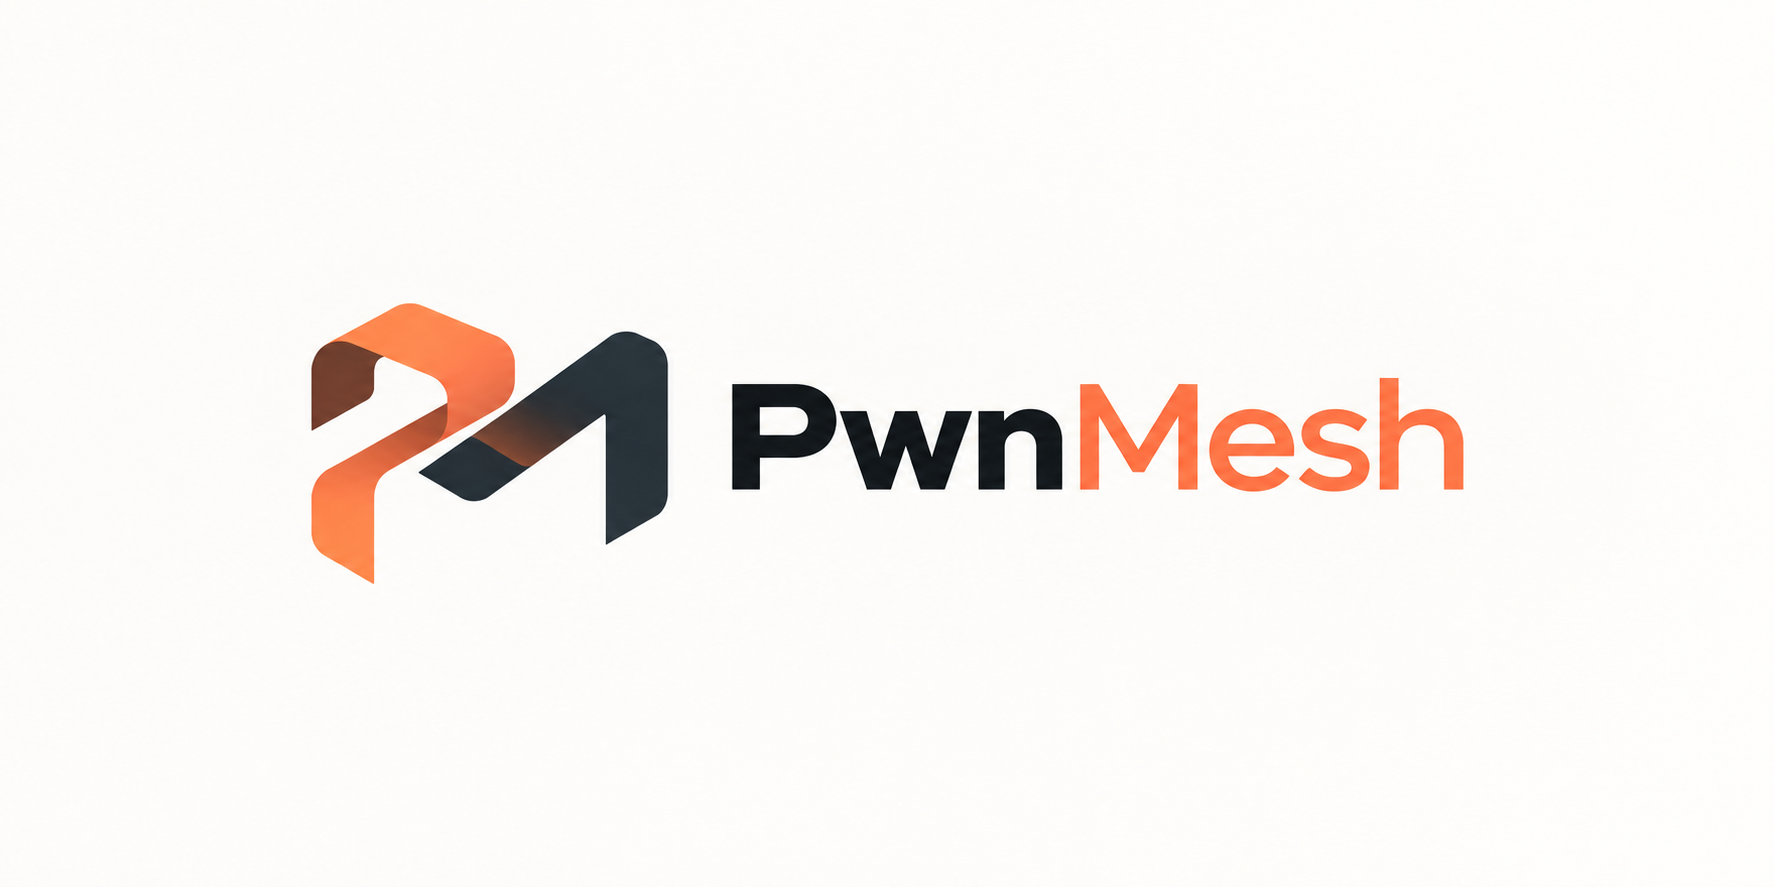
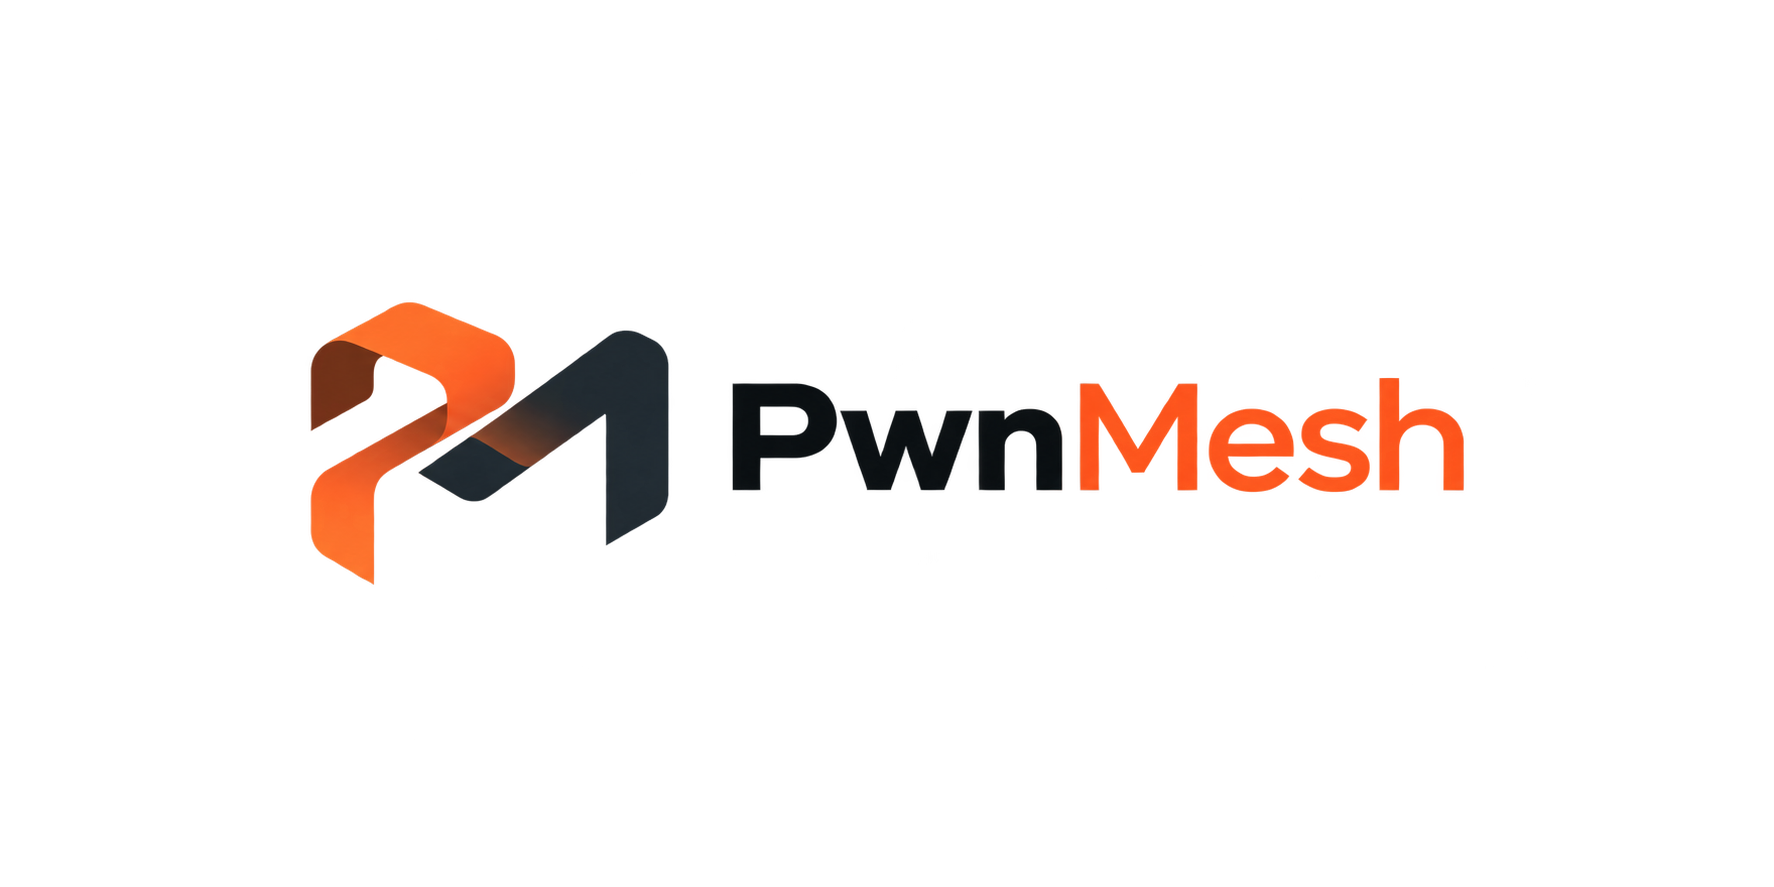
docs: expose disclaimer in Security tab and use transparent brand

Changed region(s): [[0.5891, 0.4262, 0.8371, 0.5784], [0.186, 0.3348, 0.31, 0.487], [0.155, 0.487, 0.248, 0.6697]]

diff --git a/SECURITY.md b/SECURITY.md
@@ -1,0 +1,59 @@
+# PwnMesh 免责声明与使用合规须知
+
+本声明适用于 PwnMesh 项目的代码、工具及相关文档。请在使用前阅读本声明与 [PolyForm Noncommercial License 1.0.0](LICENSE)。软件的使用、复制、修改和分发权限以该许可证为准；本声明不替代或变更许可证，也不授予对任何第三方系统进行测试的权限。
+
+## 1 工具定位
+
+PwnMesh 用于合法的技术研究、经授权的安全测试、内部风险自查及其他符合许可证的技术工作。涉及网络安全测试的功能，旨在帮助发现和验证风险、改进防御措施及开展合规的漏洞治理。
+
+公开提供代码不代表允许任意商业使用，也不代表对任何目标的测试已获得授权。涉及商业目的的使用，应先核实是否属于许可证允许的范围，必要时另行取得权利人的授权。
+
+## 2 授权使用原则
+
+使用者应当在测试前取得目标系统权利人或有权授权主体的书面授权，并明确测试对象、时间、方法、账号权限及数据处理范围。对自有系统进行测试，也应确认不会影响未经授权的第三方资源。
+
+严禁在无授权、越权或超出授权范围的情况下，实施扫描、探测、渗透、数据获取、流量分析及其他自动化测试，包括针对：
+
+- 未获授权的互联网系统；
+- 金融、能源、政务、通信、交通等领域的关键信息基础设施；
+- 第三方企业、个人或公有云中的业务系统；
+- 法律法规禁止测试的信息系统。
+
+授权不免除使用者遵守适用法律、监管要求及目标服务规则的义务。授权范围不清、授权被撤回或测试产生非预期影响时，应停止相关操作并确认后再继续。
+
+## 3 禁止滥用
+
+不得利用本项目实施以下行为：
+
+1. 非法入侵、非法控制、数据窃取、流量攻击或恶意利用漏洞；
+2. 黑灰产活动、违法牟利、恶意破坏、未经授权的批量扫描或网络骚扰；
+3. 为非法目的绕过安全控制、权限校验或其他保护措施；
+4. 危害网络安全、扰乱公共秩序、侵犯隐私、知识产权或其他合法权益的活动。
+
+## 4 责任边界与风险
+
+本项目按现状提供。在适用法律允许的范围内，项目作者、维护者和贡献者不对其准确性、完整性、安全性、持续可用性或特定用途适用性作出保证；责任限制以 [LICENSE](LICENSE) 中的条款及适用法律为准。
+
+自动化执行、模型输出和工具结果可能存在错误、遗漏或非预期行为，不能替代使用者的独立判断，也不构成法律意见或安全合规认证。使用者应自行评估运行权限、数据暴露、系统变更、服务中断和第三方服务费用等风险，并采取适当的隔离、备份及验证措施。
+
+项目代码的公开提供，不构成对第三方违法使用的认可、授权或协助。各方应根据其实际行为、过错及适用法律承担相应责任；本声明不排除或限制依法不得免除的责任，也不能据此当然免除刑事、行政或民事责任。
+
+## 5 使用者的合规义务
+
+使用者应了解并遵守其所在地、目标系统所在地及相关数据处理活动适用的法律法规。在适用中国法律的场景下，应遵守《中华人民共和国网络安全法》《中华人民共和国刑法》及其他相关规定；涉及特定行业、资质、备案或审批要求的，应在开展活动前完成必要手续。
+
+使用者应妥善保护测试账号、凭据、个人信息、业务数据和测试证据，仅在获授权的范围内收集、使用、保存或披露。向模型服务或其他第三方服务发送材料前，应确认已获得必要权限并符合相关数据处理要求。
+
+发现漏洞后，应依照授权约定及适用的漏洞披露规则报告，不得以漏洞或测试中获取的数据进行勒索、交易或其他违法活动。
+
+## 6 滥用处置
+
+在适用法律及现有许可证允许的范围内，项目维护者可拒绝提供涉嫌违法用途的技术支持，停止其自行提供的后续服务或分发渠道，并依法向有关平台或主管机关报告滥用线索。
+
+有关证据的收集、保存和提供应当依法进行。本声明不表示项目具有远程监控、自动举报或远程停用功能，也不当然撤销使用者已经依据许可证合法取得的权利。
+
+## 7 最终声明
+
+请仅在合法授权及许可证允许的范围内使用 PwnMesh。使用者应对自己的操作、数据处理及其后果依法负责；项目相关方的责任同样应依据实际行为和适用法律认定。
+
+如本声明的任何表述与适用法律的强制性规定冲突，以强制性规定为准。对授权、许可或责任范围存在疑问时，应在使用前咨询具备相应资质的专业人士。
